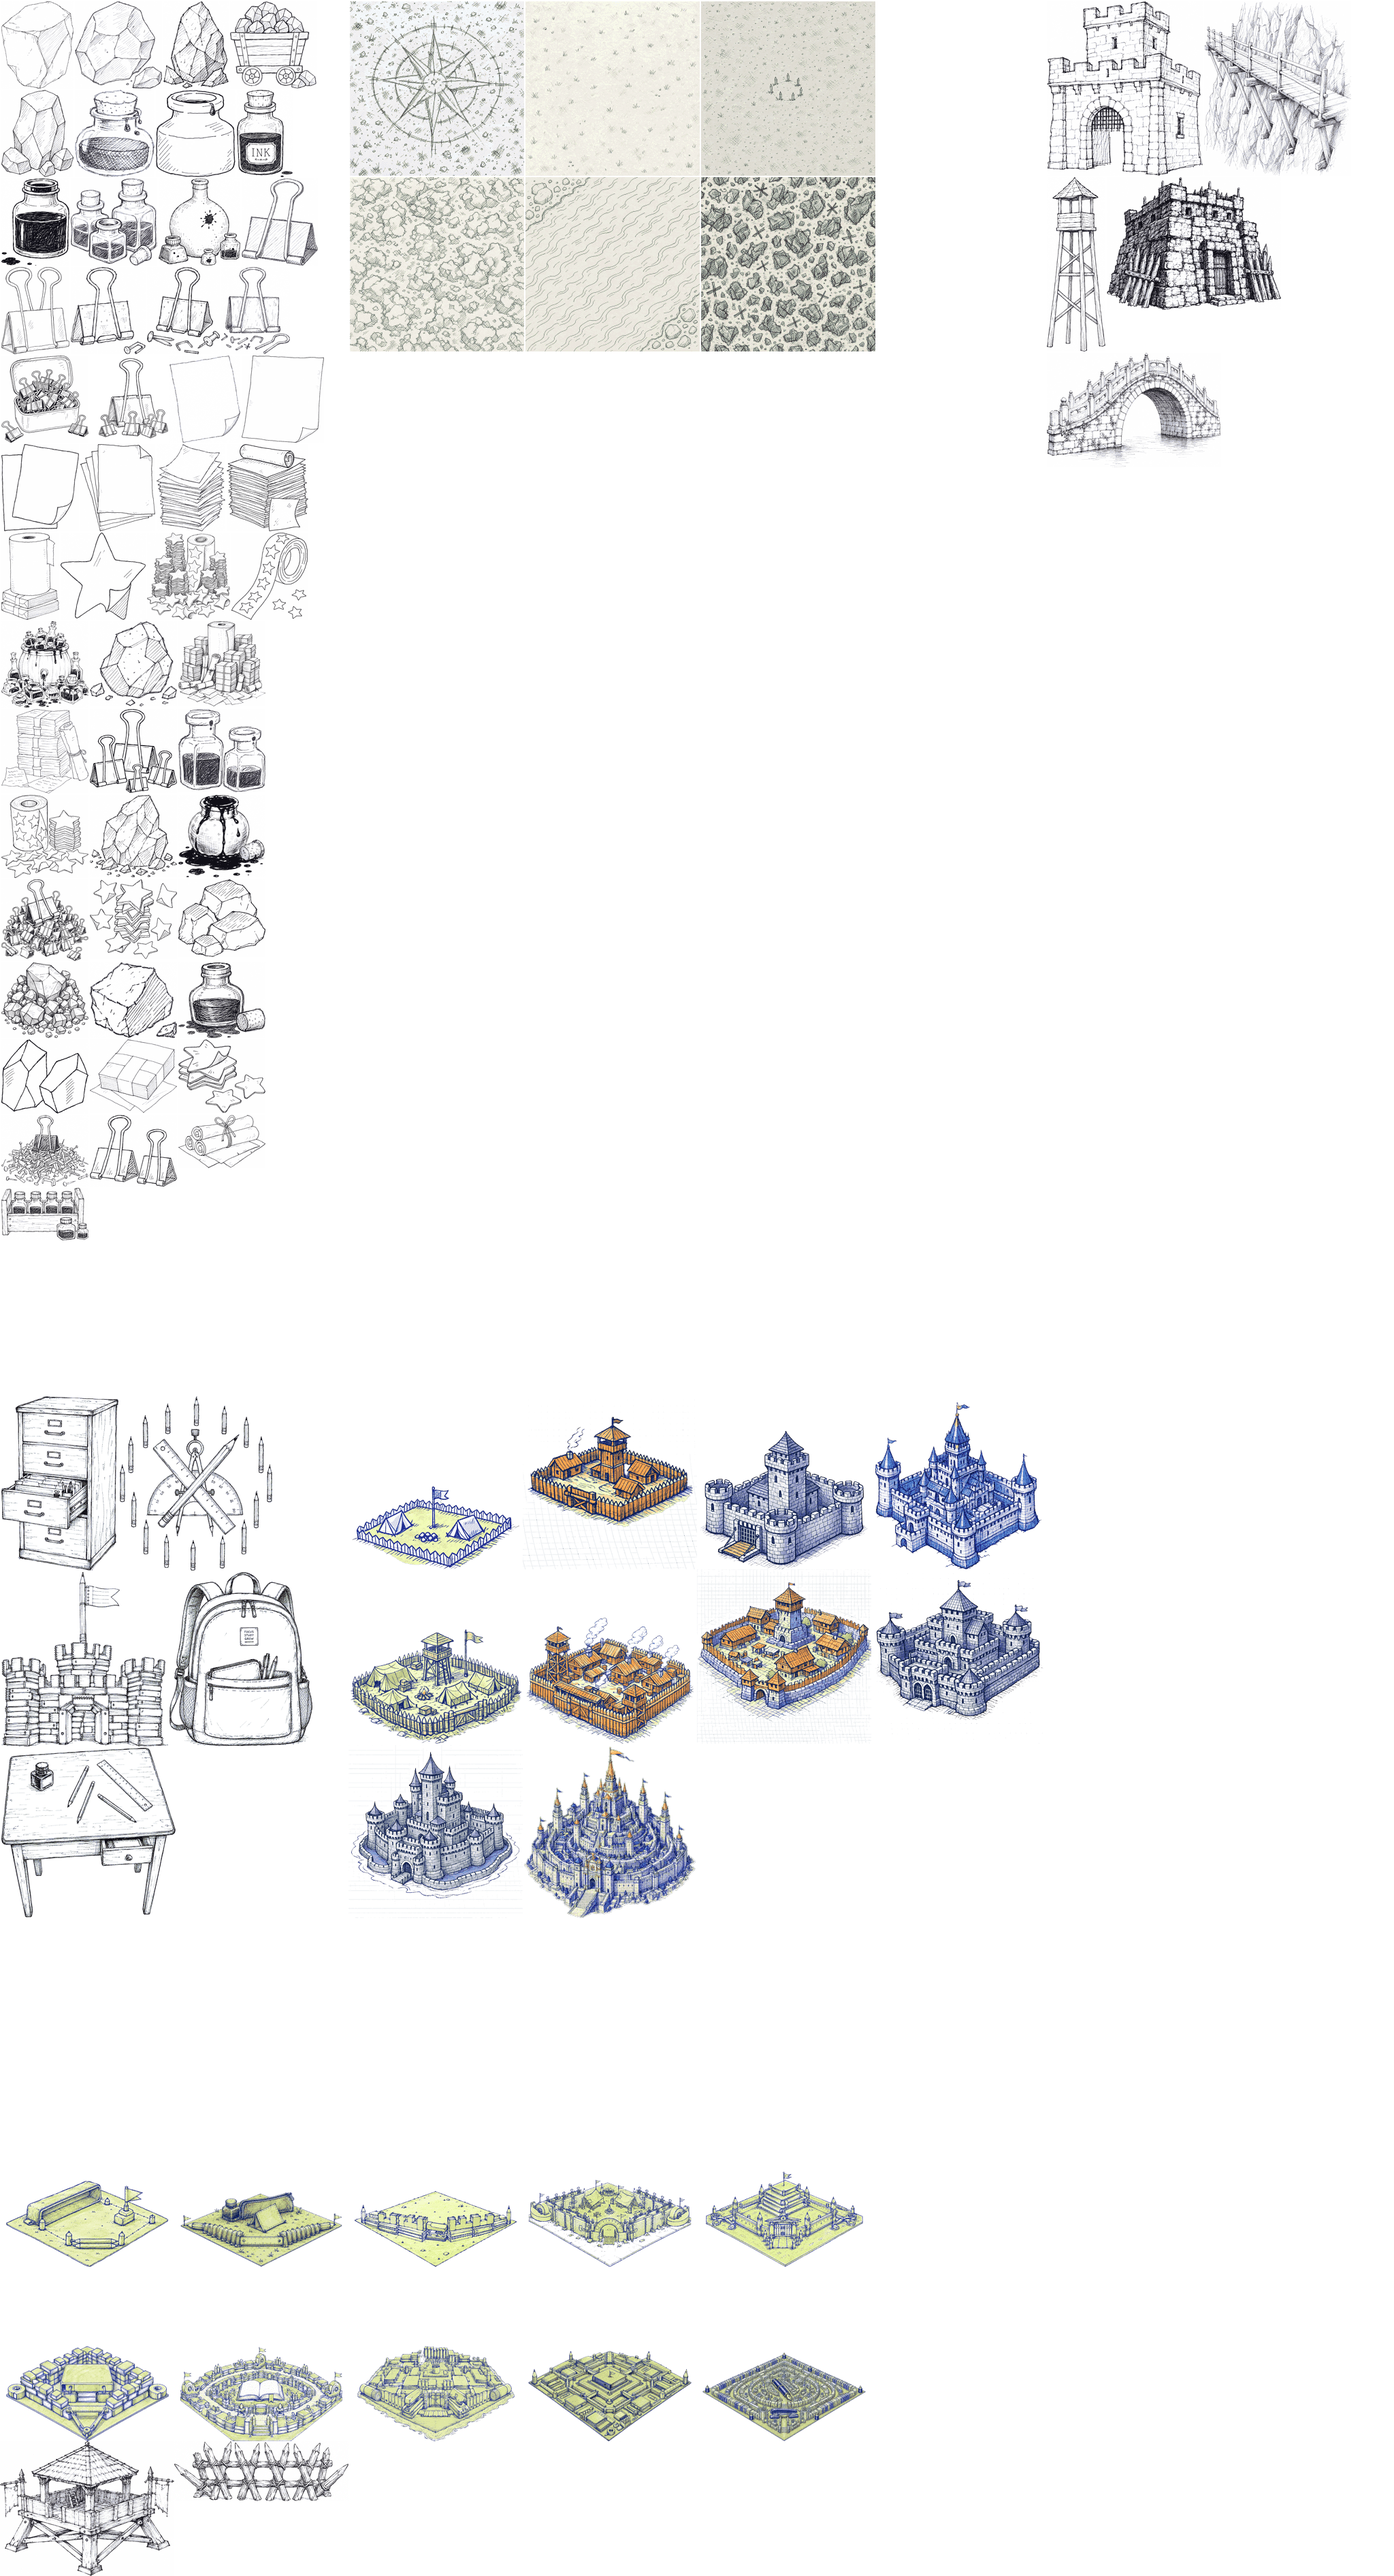
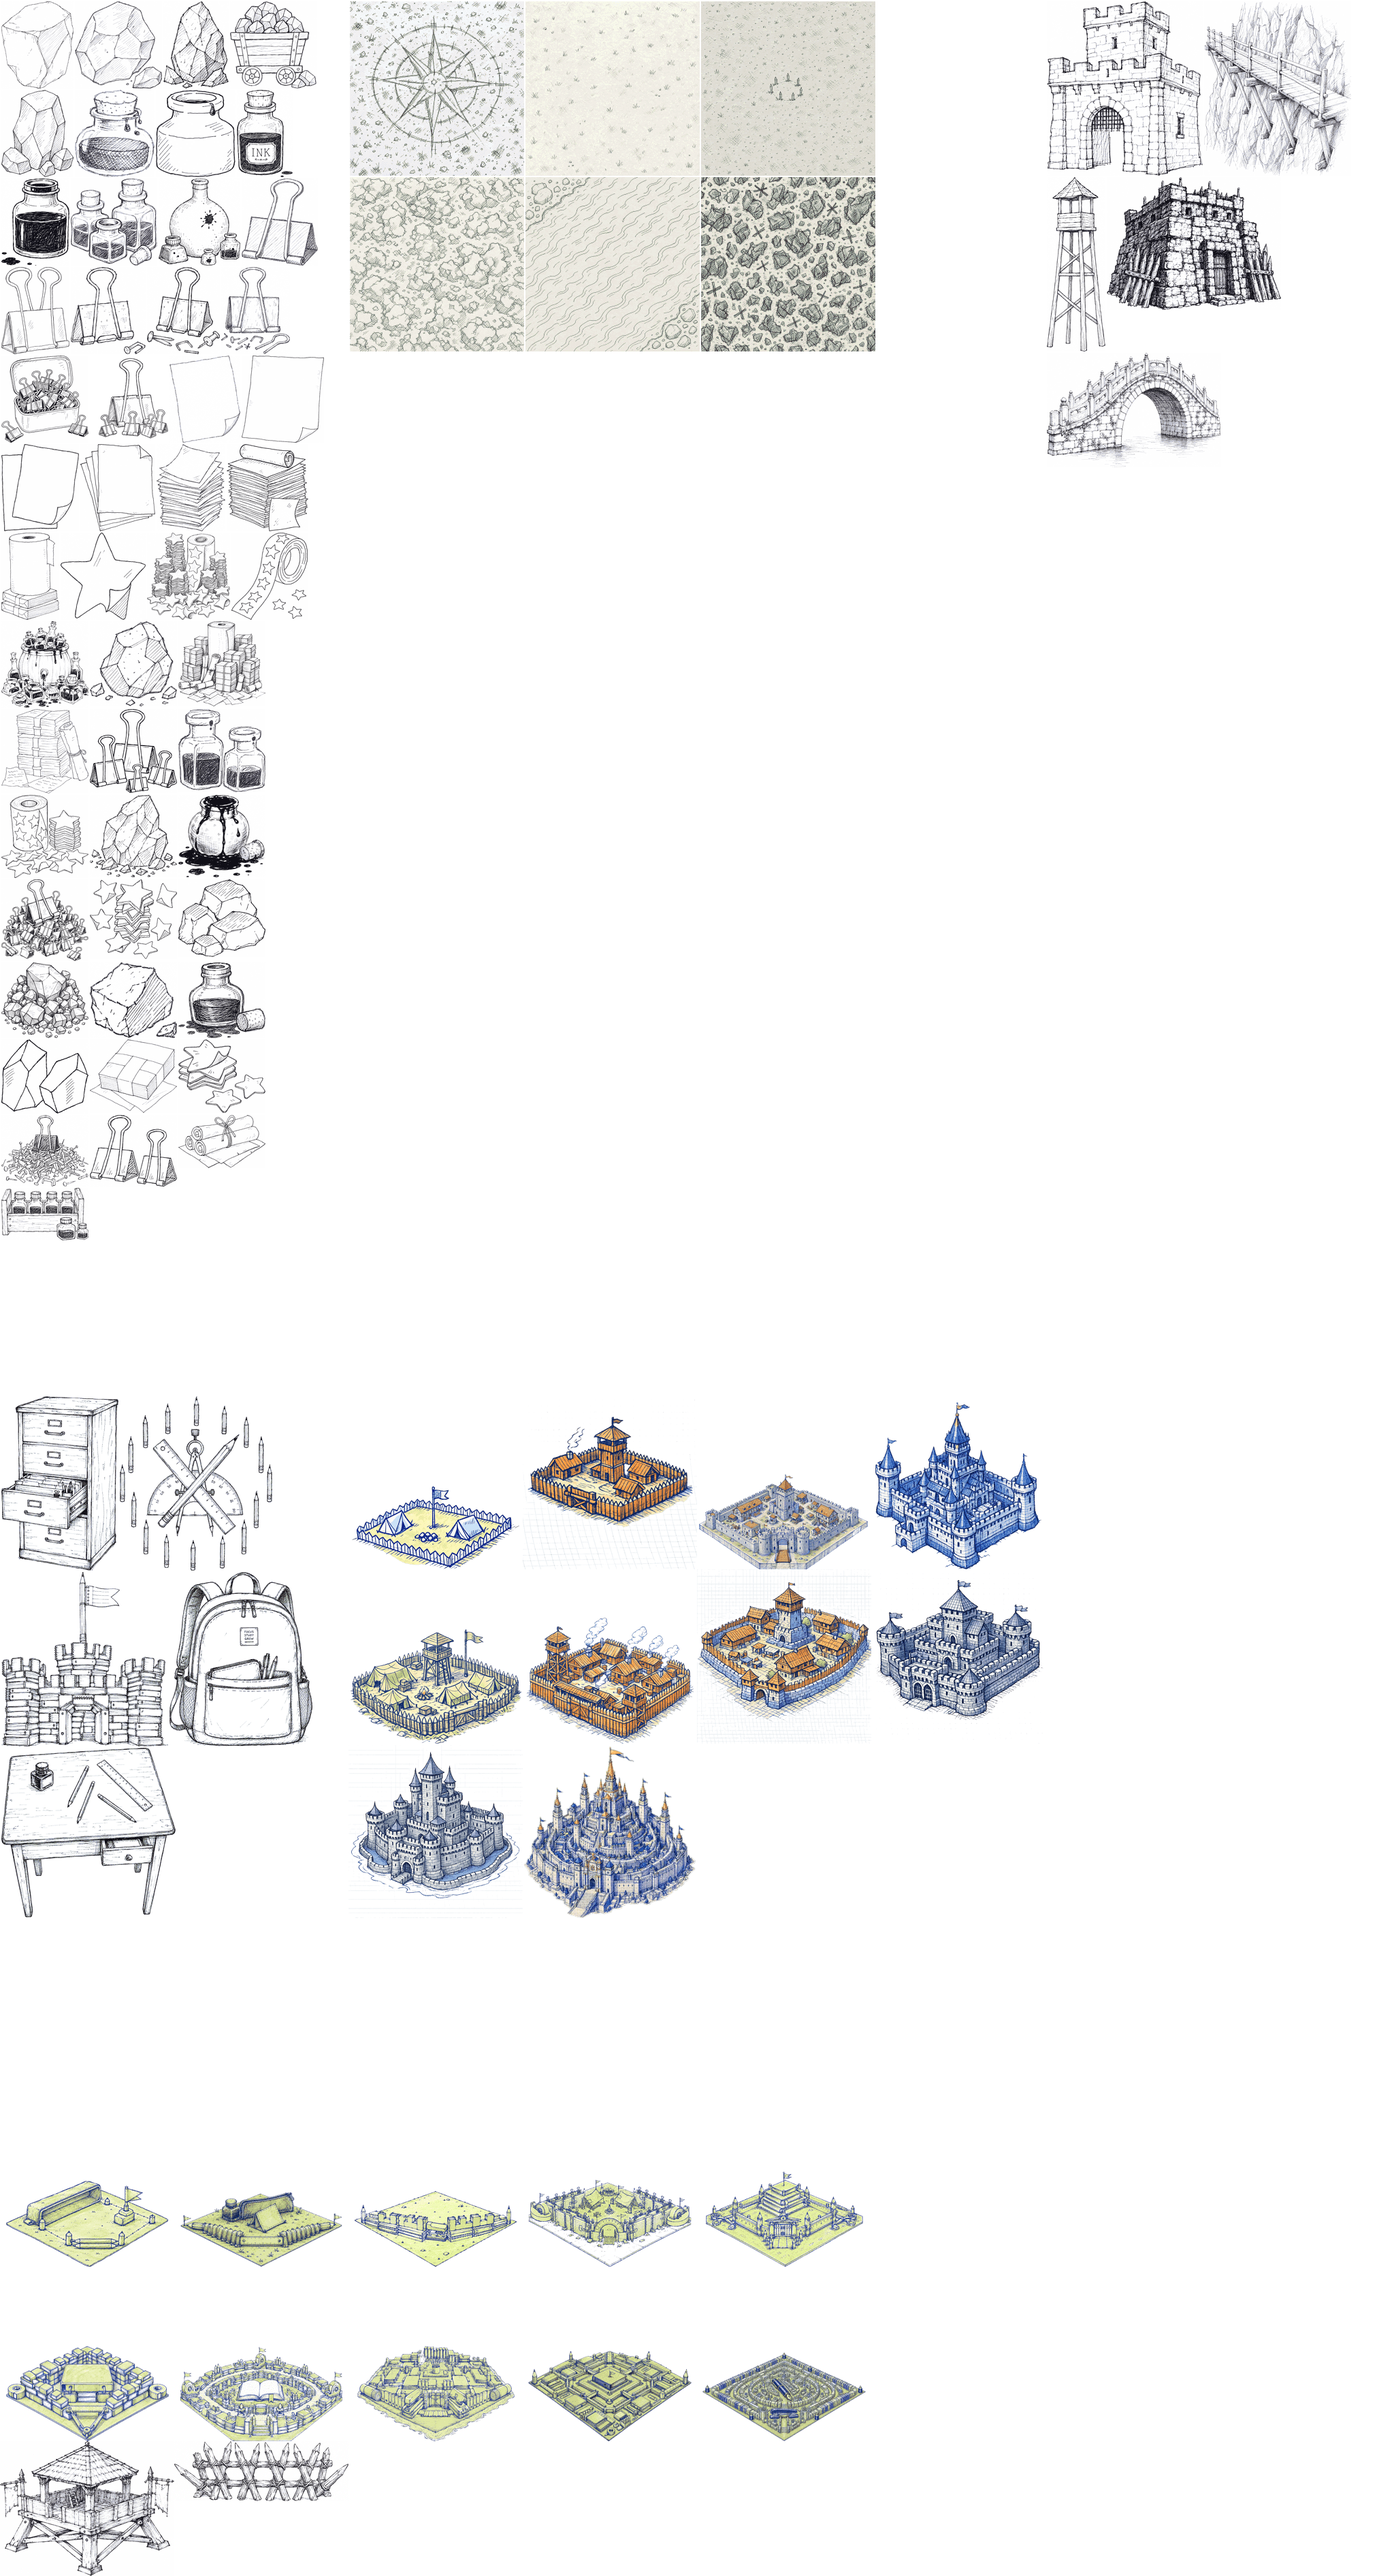
fix(slg): redraw Lv6 city art — was plainer than Lv5, broke grandeur progression
city_lv3.png (used for Lv6 "石头堡垒" via the tier-fallback naming) predates
the 2026-07-06 one-image-per-level redesign: it was drawn as the plainest
possible tier-3 entry and never compared against Lv5's later, richer art.
Found via a tier-boundary sweep (Lv2->Lv3 and Lv8->Lv9 both fine; Lv5->Lv6
was the one broken transition) prompted by a "is it really 1 image per
level" sanity check — coverage itself was fine (md5-verified, no dupes/gaps),
just this one level's grandeur read backwards.

Redrawn with a numeric content anchor (">=5 distinct structures, match
city_l5.png's density") + (after a first candidate came back as a
photorealistic painted illustration - wrong medium entirely) a front-loaded
style constraint forcing the flat blue-ink-doodle look the rest of the atlas
uses. Verified via the real pack_city_atlas.js background-removal + crop
pipeline (not eyeballing): bbox aspect 1.797, width-fill 1.0, clean cutout.

New source kept as native .webp (city_lv3.webp, FILES entry updated,
same pattern as the existing city_l10.webp) to avoid a lossy re-encode.
Old city_lv3.png archived to art/leftover/, not deleted. Repacked +
patchMergedAtlas.js'd into world_atlas; map-editor's mirrored city_atlas
copy updated by the same packer run.

Changed region(s): [[0.5, 0.5616, 0.625, 0.6552], [0.6562, 0.5616, 0.7188, 0.5928]]

diff --git a/art/ui/slg-building/pack_city_atlas.js b/art/ui/slg-building/pack_city_atlas.js
@@ -40,7 +40,7 @@ const HALO_ALPHA = 110;         // in pre-cut images, alpha below this is treate
 const FILES = [
   { file: 'city_lv1.png',  name: 'city_lv1' },
   { file: 'city_lv2.png',  name: 'city_lv2' },
-  { file: 'city_lv3.png',  name: 'city_lv3' },
+  { file: 'city_lv3.webp', name: 'city_lv3' },
   { file: 'city_lv4.png',  name: 'city_lv4' },
   { file: 'city_l2.png',   name: 'city_l2'  },
   { file: 'city_l4.png',   name: 'city_l4'  },

diff --git a/design/product/city-image-prompts.md b/design/product/city-image-prompts.md
@@ -181,3 +181,93 @@ playerbase_atlas 折腾 8 个子回合（[[slg-playerbase-oversized-fix-2026-07-
 **结论**：`city_atlas` 设计初衷（"图自带地台，地台=地块，整体矮宽"）成立，未发现 playerbase 那类"建筑铺不满地块"的缺陷，任务到此收尾，不需要改 `pack_city_atlas.js`、不需要重出图。审计脚本为抛弃式临时文件，未入库。
 
 **顺带清理**：`art/ui/slg-building/` 目录里另有 2 个 UUID 命名的 `.webp`（悬崖栈道 / 石拱桥，黑白铅笔素描），既不在 `pack_city_atlas.js` 的 `FILES` 列表里、画风也跟 `city_atlas` 蓝墨线等轴测涂鸦完全不符——不是这次审计的产物，大概率是"桥/栈道"（`building_bridge`/`building_plankway`，真正管线在 `art/ui/slg-map/pack_buildings.cjs`）早期探索时误放在这个目录、画风不对被搁置的草稿。已按约定移入 `art/leftover/`（保留原文件名，未删）。
+
+## 递进审计（2026-08-14）——Lv6 比 Lv5 简化，违反"越级越宏伟"，需重出图
+
+铺格审计之外，用户追问"10 张图是否真的一级一张"，顺带核实了一遍**覆盖完整性**（哈希比对 10 帧原始像素，全部互不相同，一一对应 10 级，无重复无缺失——`city_lv1/2/3/4` 虽然沿用旧的"档位回退"命名，但内容本来就是各自档位**最低那一级**的专属图，不是临时顶替）和**跨档边界的视觉递进**（每档"顶配"vs 下一档"入门"是否读得出"更宏伟"）：
+
+| 边界 | 前一级 | 后一级 | 结论 |
+|---|---|---|---|
+| Lv2→Lv3 | `city_l2`（帐篷营地） | `city_lv2`（木寨小镇，真房子+烟囱） | 正常，明显更发达 |
+| **Lv5→Lv6** | `city_l5`（大型木寨，多建筑+市集+瞭望塔，画面很满） | `city_lv3`（单个主堡+两座角楼，构图简单） | **反常——Lv6 比 Lv5 简单** |
+| Lv8→Lv9 | `city_l8`（大型石堡+护城河） | `city_lv4`（多塔蓝色城堡） | 大致相当，过渡自然 |
+
+**根因**：`city_lv3.png` 是 2026-07-06"每级一张"改版前的老图，当初的定位只是"石头堡垒档"里画得最朴素的入门代表，从没跟同档已经很饱满的 Lv5 放在一起比较过。Lv6 的地块从 5×5 跳到 7×7（渲染时精灵线性放大，画面在屏幕上确实变大），但画面内容本身（建筑数量、细节密度）明显比 Lv5 少，玩家会读出"升级了城反而变简单"的错觉。
+
+**结论**：9 张图（含另外 3 张旧档回退图 `city_lv1/2/4`）在各自位置过渡正常，唯独 `city_lv3.png`（Lv6）建议重新出图，衔接住 Lv5 的饱满度，向 Lv7（双层同心环+三塔）过渡。
+
+### `city_lv3` 重出 prompt — Lv6「石头堡垒」（衔接 Lv5→Lv7，替换现有 `city_lv3.png`）
+
+```
+A proper stone fortress town, not a single lonely keep: thick crenellated
+outer walls enclosing a busy courtyard with AT LEAST 5 distinct structures —
+a central keep taller than the walls with a peaked roof and pennant, two
+round corner towers with arrow-slit windows flanking a stone gatehouse with
+a drawbridge and portcullis (grid of lines), plus a barracks building, a
+storehouse, and a small well or market stall tucked inside the walls. Heavy
+cross-hatching on all stone surfaces for texture. The finished silhouette
+must read AT LEAST as full and detailed as a large developed wooden town —
+match the building-count and density of city_l5.png, do not make it simpler
+or emptier than that reference — this is the first STONE tier and must never
+look plainer or smaller than the wood tier's peak that came right before it,
+while still clearly reading more fortified and stony. Sits on its own wide
+isometric ground plate, same camera framing as city_l5.png/city_l7.png (top-
+down rotated diamond, not a front elevation). Blue ink outline, cool grey-blue
+fill for stone, warm brown accent only on the wooden gate/drawbridge beams.
+[+ style]
+```
+
+要点沿用 playerbase 那次摸出来的"数字自检 > 形容词"经验：明确写"至少 5 个独立建筑"这种可数的硬指标，并直接点名"参照 `city_l5.png` 的密度，不能比它更空"，比抽象描述"宏伟"更容易在生图时命中。
+
+**待办**：用户出图后按同样方法核对（跟 `city_l5`/`city_l7` 放一起肉眼比对饱满度，另外过一遍铺格审计的 bbox 宽高比 ≥0.9375 判据），落地后 `node art/ui/slg-building/pack_city_atlas.js` 重新打包 + `patchMergedAtlas.js` 补丁进 `world_atlas`，旧 `city_lv3.png` 移入 `art/leftover/`。
+
+**第一版候选（2026-08-14）——画风不对，不采用**：用户按上面的 prompt 出了一版，内容/密度达标（多建筑、井、市集摊位、锻造炉，明显比旧图丰富），但**整体画风是精细写实上色插画**（石材渐变光影、仿真质感、专业原画级别层次），跟 `city_atlas` 全系列"钢笔蓝墨线速写 + 单色/双色水彩淡填充、无光影渐变"的扁平涂鸦风格完全不是一种媒介，放进图集会非常突兀。
+
+根因分析：跟 playerbase 那次"机位指令埋在结尾没吃到"是同一类坑——风格约束（"hand-drawn doodle illustration...fountain pen blue ink lines...watercolor marker fill"）只放在末尾通用 `[+ style]` 段落里，正文描述内容本身没有任何风格限定词，生成工具显然只认了内容、没认风格。
+
+### `city_lv3` v2 prompt（风格约束前置 + 具体负面排除）
+
+```
+A loose hand-drawn ink DOODLE sketch on graph paper — NOT a detailed painted
+illustration, NOT realistic shading, NOT rendered stone texture with light/
+dark gradients. Flat, scratchy fountain-pen blue ink outlines with occasional
+cross-hatching for texture ONLY (no smooth shading, no gradients, no
+photorealism), filled with simple FLAT single-tone watercolor washes (cool
+grey-blue for stone, warm orange-brown for wood roofs/beams) — like a
+student's notebook margin doodle, matching the exact rendering style of
+city_l5.png and city_l7.png (same medium, same flatness, same line
+weight — NOT a game-art render, NOT a book illustration).
+
+Subject: a proper stone fortress town, not a single lonely keep — thick
+crenellated outer walls enclosing a busy courtyard with AT LEAST 5 distinct
+structures: a central keep taller than the walls with a peaked roof and
+pennant, two round corner towers with arrow-slit windows flanking a stone
+gatehouse with a drawbridge and portcullis (grid of lines), plus a barracks
+building, a storehouse, and a small well or market stall tucked inside the
+walls. The finished silhouette must read AT LEAST as full and detailed as a
+large developed wooden town — match the building-count and density of
+city_l5.png, do not make it simpler or emptier than that reference — this is
+the first STONE tier and must never look plainer or smaller than the wood
+tier's peak that came right before it. Sits on its own wide isometric ground
+plate, same top-down rotated-diamond camera as city_l5.png/city_l7.png (NOT
+a front elevation).
+[+ style]
+```
+
+v2 把风格约束（"是涂鸦速写不是精细插画"）挪到全文最前面并用具体负面词排除（"NOT realistic shading/rendered texture/game-art render/book illustration"），内容段落原样保留（已验证密度达标）。
+
+**v2 候选（2026-08-14，采用）**：用户按 v2 prompt 重出一版，画风这次对上了（蓝墨线+交叉排线+扁平色块，跟 `city_l5.png` 同一媒介），方格纸背景（`pack_city_atlas.js` 的去背算法专为此设计，不是问题）。用真实打包管线核对（不是肉眼）：
+
+| 项 | 数值 | 判定 |
+|---|---|---|
+| 去背（真实跑 `cutBackground` 区域生长算法） | 干净，方格纸完全清除，无残留、无吃穿建筑 | PASS |
+| 内容外接框宽高比 | 2557×1423 → 1.797 | PASS（远超 ≥0.9375 阈值） |
+| 宽度填充 `fittedW/CELL` | 1.0（宽度触底，自动贴满整格） | PASS |
+
+内容密度也核对过（跟 `city_l5.png`/`city_l7.png` 放同一显示尺度对比）：新图建筑数量/细节明显超过 Lv5（多了锻造炉小屋、水井、更多市集摊位），原先"Lv6 比 Lv5 简单"的问题解决。**唯一花絮**：新图外接框偏"扁"（宽高比 1.797，比 Lv5 的 1.0/Lv7 的 0.988 都更矮胖）——Lv6/Lv7 同属 7×7 地块档、精灵尺寸相同，所以实机会看到 Lv6 明显比 Lv7 更低矮；不违反任何硬性指标（宽度照样贴满），也符合 city 建筑"矮宽、地台=地块"的定位，记录在案，暂不处理。
+
+**已采用并落地**：
+- 源图（webp 格式，未转 png，避免有损转码）改名为 `city_lv3.webp`，`pack_city_atlas.js` 的 `FILES` 列表同步把 `city_lv3.png` 改成 `city_lv3.webp`（沿用 `city_l10.webp` 已验证过的 webp 支持路径）
+- 旧 `city_lv3.png`（2026-07-06 之前的老图，简单单堡+两角楼版本）移入 `art/leftover/city_lv3_pre-2026-08-14-lv6-fix.png`，未删
+- 重跑 `pack_city_atlas.js` + `patchMergedAtlas.js`，补丁进 `client/src/assets/slg/world_atlas.{png,json}`；`tools/map-editor/src/assets/slg/city_atlas.{png,json}` 由打包脚本自动同步写入
+- 从合并后的 `world_atlas.png` 按 frame 坐标重新 extract 实际像素核对（不是只信打包脚本打印的数字）：`city_lv3` 帧宽高比 1.771（打包时因取整 -1px 级误差，跟源图直测的 1.797 一致），`contentTop=0.4453`，肉眼确认跟前面候选阶段的预览一致，去背干净
